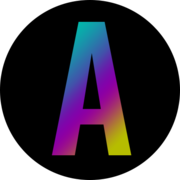
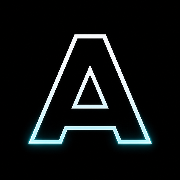
Refactor code structure for improved readability and maintainability

diff --git a/app/layout.tsx b/app/layout.tsx
@@ -30,6 +30,16 @@ export const metadata: Metadata = {
     template: `%s · ${site.name}`,
   },
   description: site.description,
+  applicationName: site.name,
+  authors: [{ name: site.name, url: site.url }],
+  creator: site.name,
+  alternates: {
+    canonical: "/",
+  },
+  robots: {
+    index: true,
+    follow: true,
+  },
   openGraph: {
     type: "website",
     siteName: site.name,
@@ -44,12 +54,12 @@ export const metadata: Metadata = {
   },
   icons: {
     icon: [
-      { url: "/favicon-32x32.png", sizes: "32x32", type: "image/png" },
-      { url: "/favicon-16x16.png", sizes: "16x16", type: "image/png" },
+      { url: "/favicon.ico", sizes: "48x48" },
+      { url: "/favicon.svg", type: "image/svg+xml" },
+      { url: "/favicon-96x96.png", sizes: "96x96", type: "image/png" },
     ],
-    apple: "/apple-touch-icon.png",
+    apple: [{ url: "/apple-touch-icon.png", sizes: "180x180", type: "image/png" }],
   },
-  manifest: "/site.webmanifest",
 };
 
 export const viewport: Viewport = {